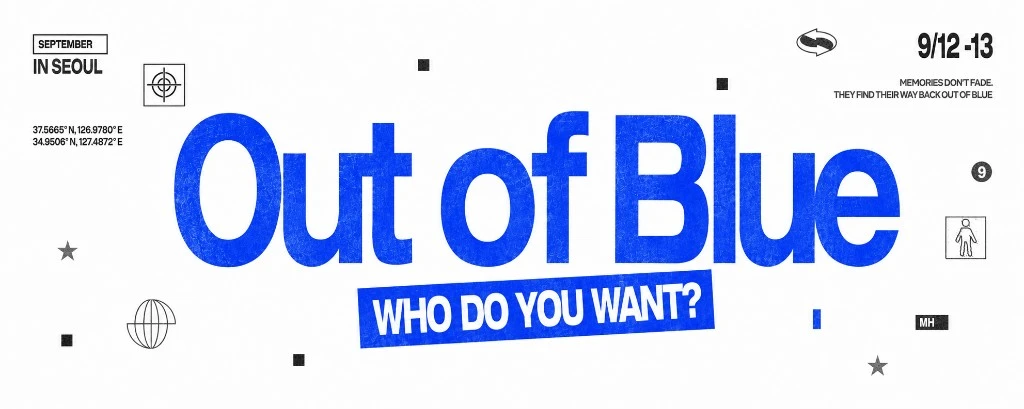
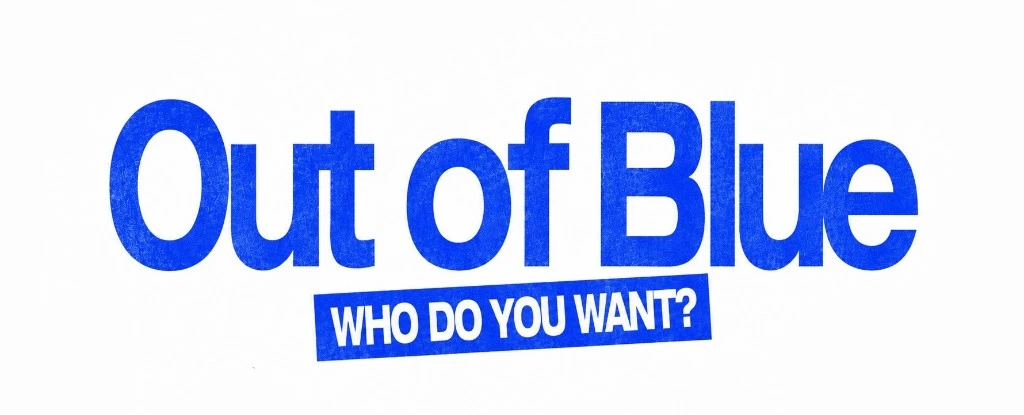
hero.webp 갱신, sparkle 제거 및 잔여석 안내를 영상회로 이동

diff --git a/screening/index.html b/screening/index.html
@@ -71,7 +71,7 @@
       display: block;
       width: 100%;
       height: auto;
-      aspect-ratio: 1024 / 409;
+      aspect-ratio: 1024 / 415;
     }
 
     .inner {
@@ -79,15 +79,6 @@
       margin: 0 auto;
       padding: 28px 0 calc(88px + env(safe-area-inset-bottom, 0px));
       text-align: center;
-    }
-
-    .sparkle {
-      display: inline-block;
-      width: 16px;
-      height: 16px;
-      margin: 0 8px;
-      background: var(--ink);
-      clip-path: polygon(50% 0, 58% 42%, 100% 50%, 58% 58%, 50% 100%, 42% 58%, 0 50%, 42% 42%);
     }
 
     h1.title {
@@ -311,7 +302,6 @@
       .cta { width: max-content; min-width: 148px; }
       form button { width: 148px; }
       h1.title { letter-spacing: 0.08em; }
-      .sparkle { width: 18px; height: 18px; }
     }
 
     @media (min-width: 768px) {
@@ -372,11 +362,10 @@
 <body>
   <div class="page">
     <div class="hero-image">
-      <img src="../media/photo/hero.webp" alt="OUT OF BLUE — who do you want?" width="1024" height="409" decoding="async" fetchpriority="high">
+      <img src="../media/photo/hero.webp" alt="OUT OF BLUE — who do you want?" width="1024" height="415" decoding="async" fetchpriority="high">
     </div>
 
     <div class="inner">
-      <div class="sparkle" aria-hidden="true"></div>
       <h1 class="title">PRIVATE SCREENING EVENT</h1>
 
       <a class="cta" href="https://witchform.com/deposit_form/1067434" target="_blank" rel="noopener">
@@ -414,6 +403,7 @@
               <li>선예매 18,000원</li>
               <li>현장예매 20,000원</li>
             </ul>
+            <p class="note">*잔여석에 한하여 현장 예매가 진행됩니다.</p>
             <p class="note">*준비된 좌석 마감 시 현장 예매는 진행하지 않습니다.</p>
           </div>
         </article>

diff --git a/exhibition/index.html b/exhibition/index.html
@@ -71,7 +71,7 @@
       display: block;
       width: 100%;
       height: auto;
-      aspect-ratio: 1024 / 409;
+      aspect-ratio: 1024 / 415;
     }
 
     .inner {
@@ -79,15 +79,6 @@
       margin: 0 auto;
       padding: 28px 0 calc(88px + env(safe-area-inset-bottom, 0px));
       text-align: center;
-    }
-
-    .sparkle {
-      display: inline-block;
-      width: 16px;
-      height: 16px;
-      margin: 0 8px;
-      background: var(--ink);
-      clip-path: polygon(50% 0, 58% 42%, 100% 50%, 58% 58%, 50% 100%, 42% 58%, 0 50%, 42% 42%);
     }
 
     h1.title {
@@ -311,7 +302,6 @@
       .cta { width: max-content; min-width: 148px; }
       form button { width: 148px; }
       h1.title { letter-spacing: 0.08em; }
-      .sparkle { width: 18px; height: 18px; }
     }
 
     @media (min-width: 768px) {
@@ -372,11 +362,10 @@
 <body>
   <div class="page">
     <div class="hero-image">
-      <img src="../media/photo/hero.webp" alt="OUT OF BLUE — who do you want?" width="1024" height="409" decoding="async" fetchpriority="high">
+      <img src="../media/photo/hero.webp" alt="OUT OF BLUE — who do you want?" width="1024" height="415" decoding="async" fetchpriority="high">
     </div>
 
     <div class="inner">
-      <div class="sparkle" aria-hidden="true"></div>
       <h1 class="title">PHOTO EXHIBITION</h1>
 
       <a class="cta" href="https://witchform.com/deposit_form/1067434" target="_blank" rel="noopener">
@@ -411,7 +400,6 @@
           <h2>가격</h2>
           <div>
             <p>선예매 / 현장예매 10,000원</p>
-            <p class="note">*잔여석에 한하여 현장 예매가 진행됩니다.</p>
           </div>
         </article>
 
